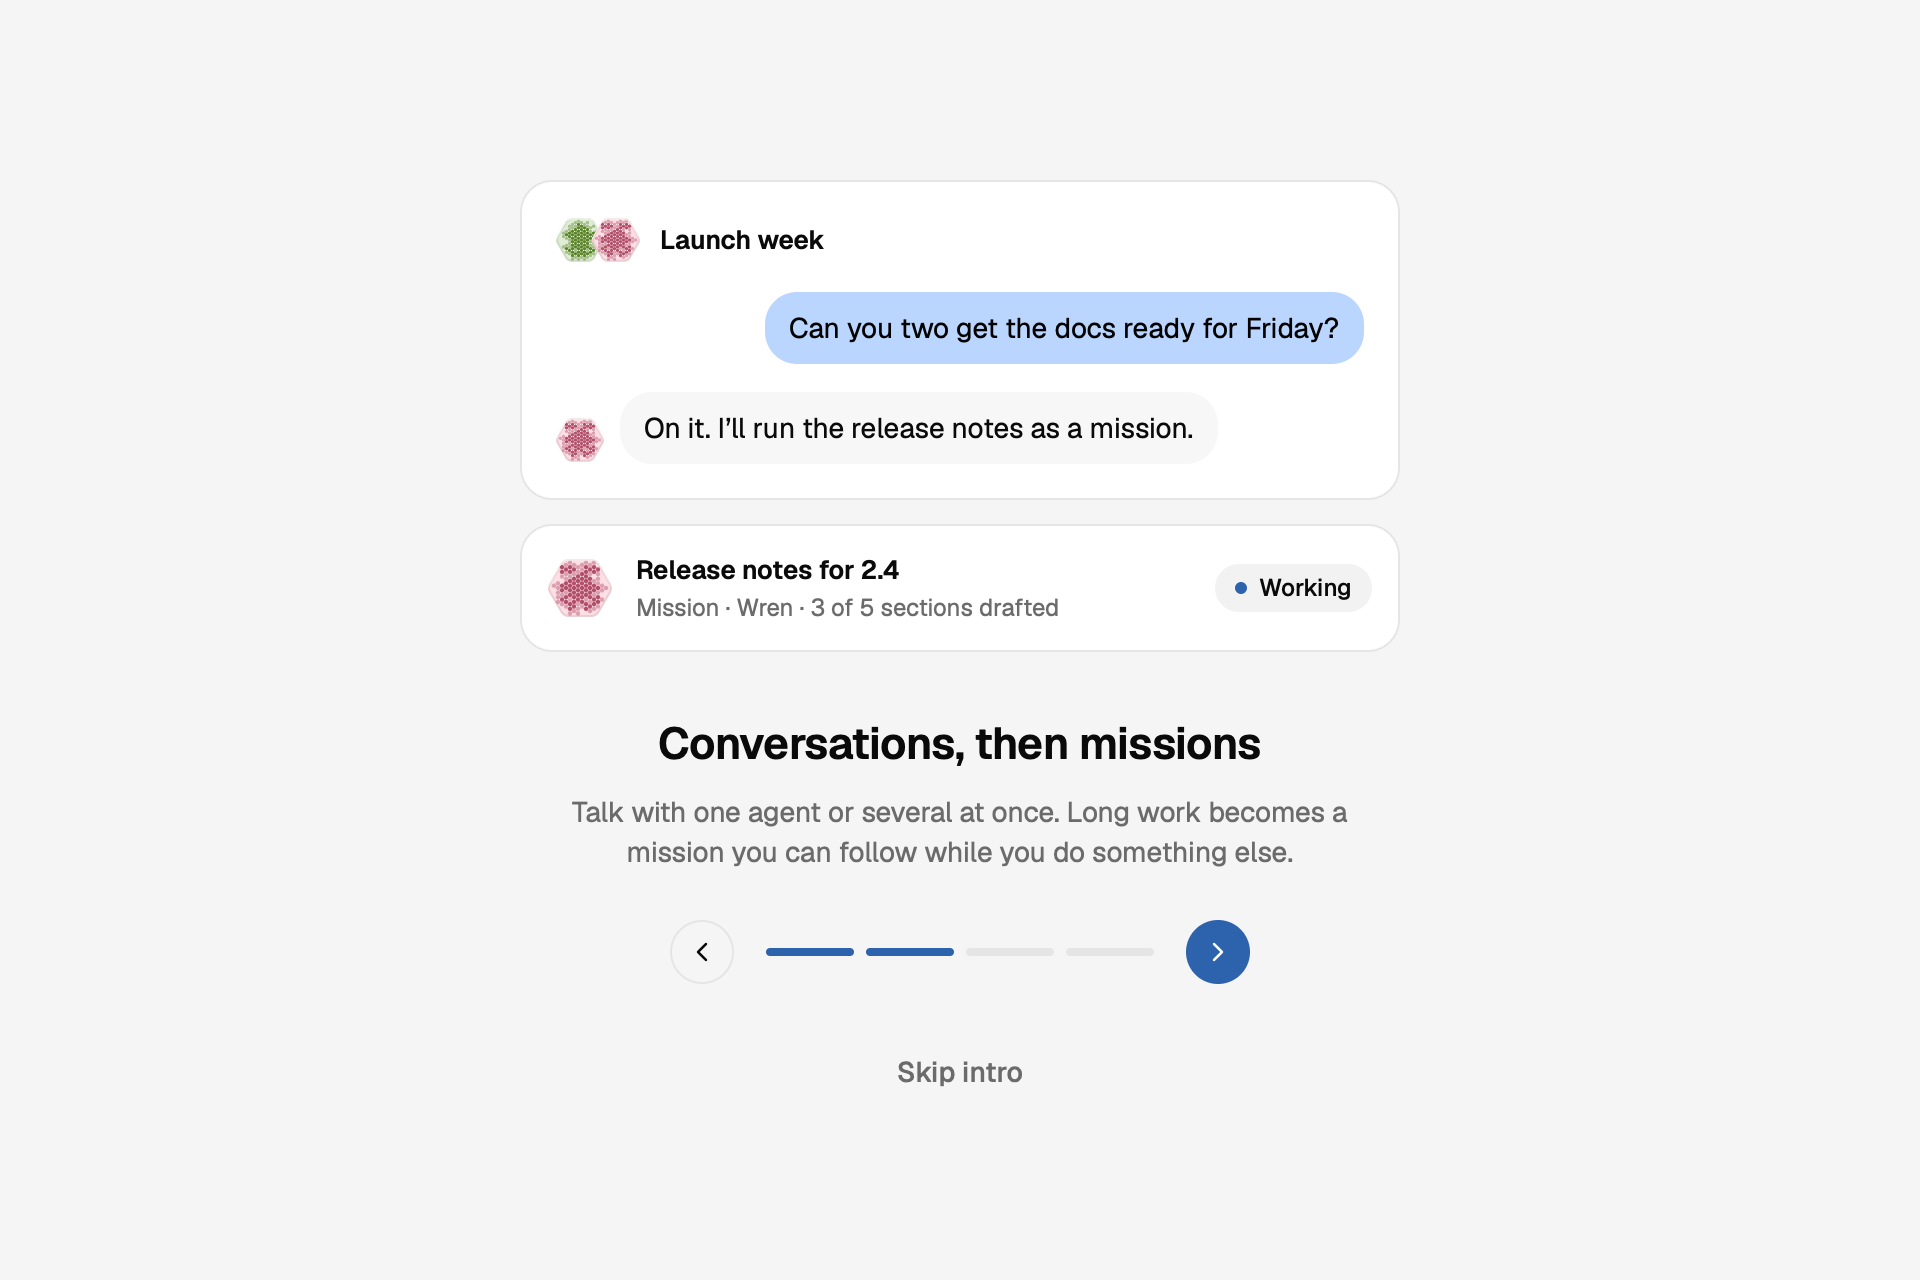
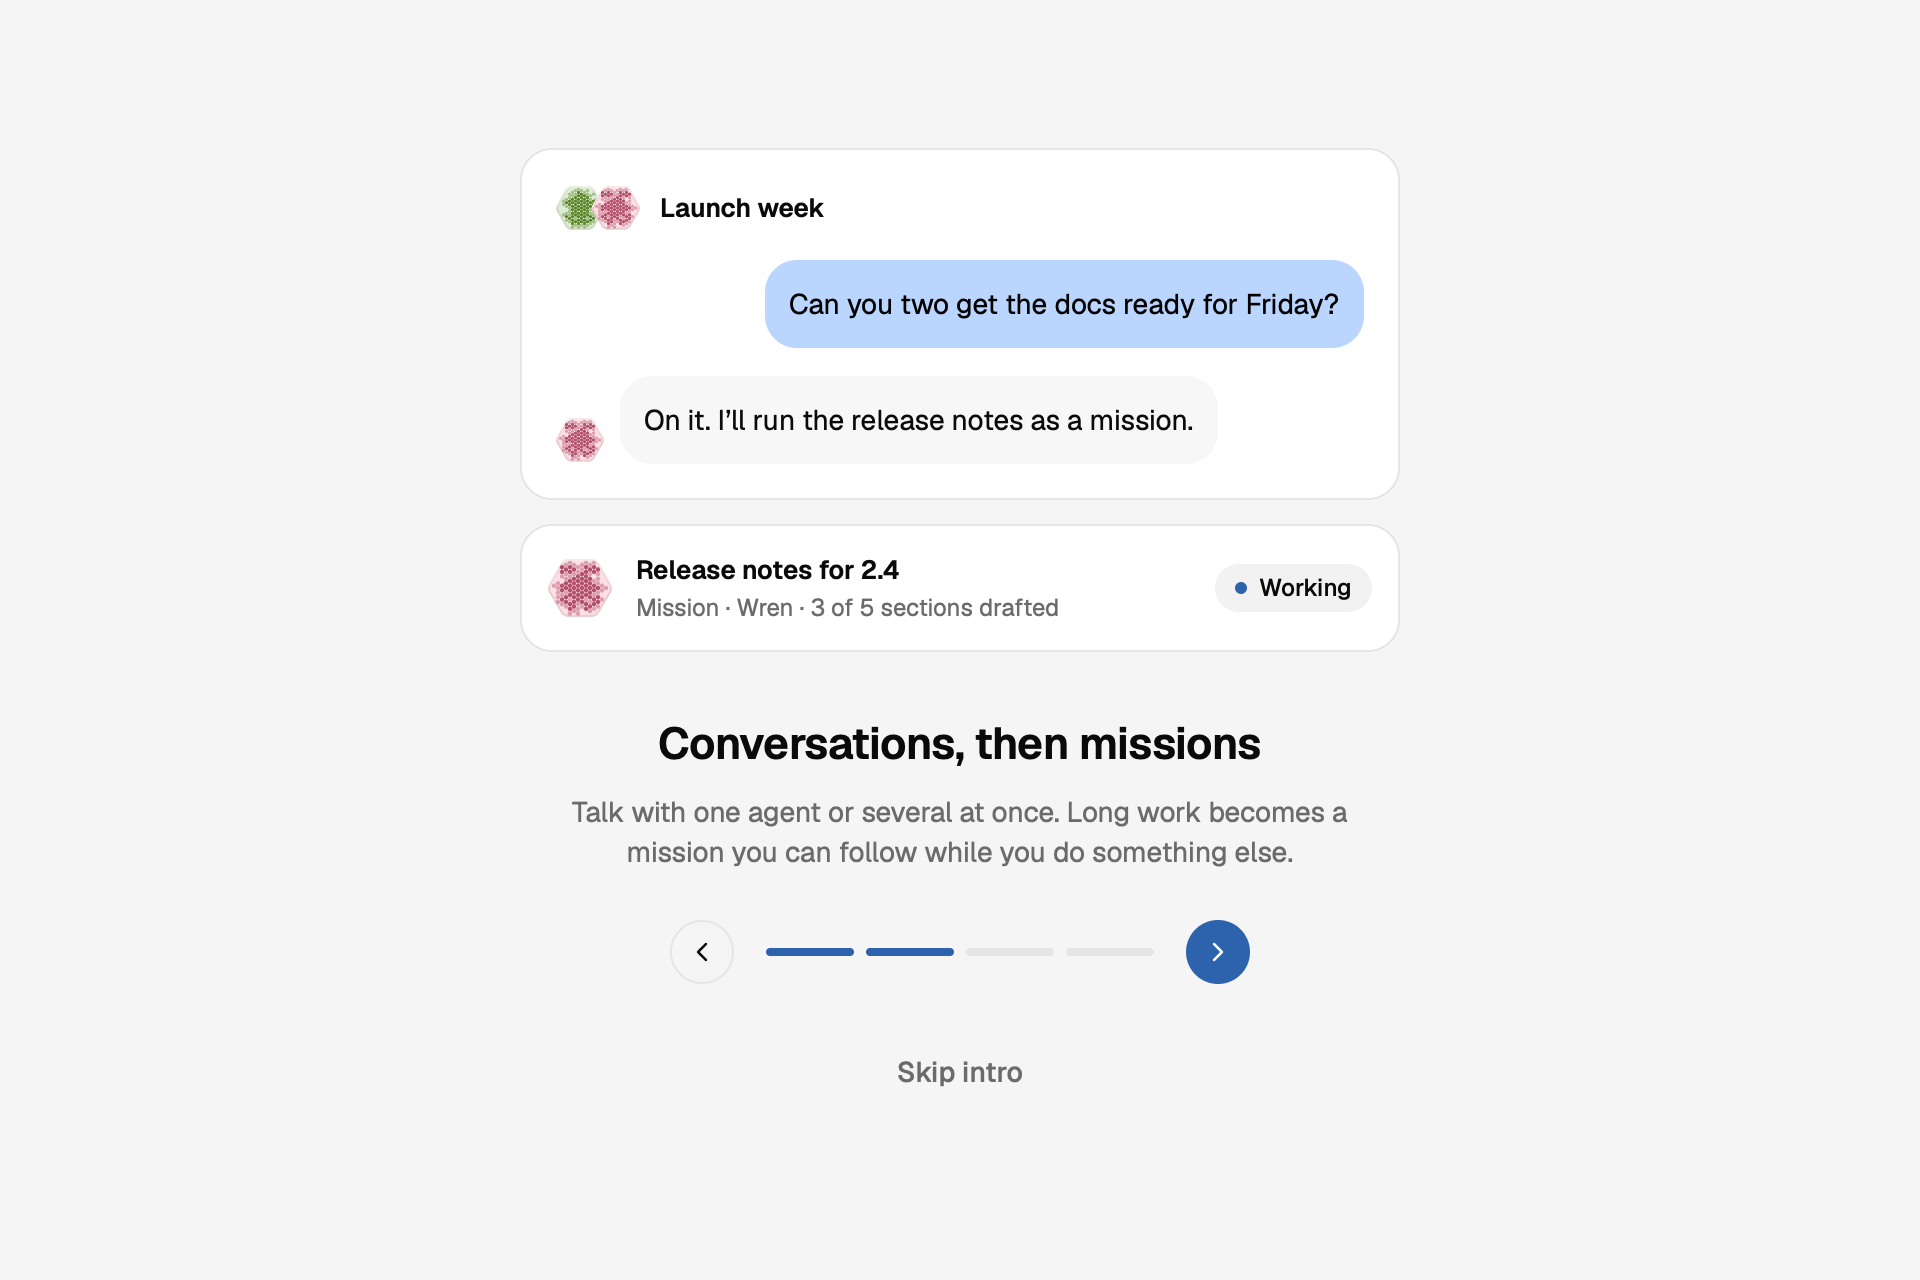
fix(rune-preview): pad welcome bubbles equally and fill the notice action (OPE-1978)

Changed region(s): [[0.2812, 0.125, 0.7188, 0.2812], [0.3125, 0.3125, 0.625, 0.3438]]

diff --git a/apps/rune-preview/kit/src/surfaces/s04_boot/notice.rs b/apps/rune-preview/kit/src/surfaces/s04_boot/notice.rs
@@ -263,7 +263,7 @@ fn content<S: 'static>(
 	if let Some(action) = notice.action {
 		body = body.child(
 			Button::new(action)
-				.variant(ButtonVariant::Outline)
+				.variant(ButtonVariant::Secondary)
 				.size(ButtonSize::Sm)
 				.view(t)
 				.on_press(move |s: &mut S| emit(s, SurfaceEvent::Act(index))),

diff --git a/apps/rune-preview/kit/src/surfaces/s04_boot/welcome.rs b/apps/rune-preview/kit/src/surfaces/s04_boot/welcome.rs
@@ -243,8 +243,7 @@ fn bubble(t: &Tokens, words: &str, solid: bool) -> El {
 	};
 	el().max_w(BUBBLE_MAX_WIDTH)
 		.shrink()
-		.px(SPACING * 3.0)
-		.py(SPACING * 2.0)
+		.padding(SPACING * 3.0)
 		.radius(RADIUS_BUBBLE)
 		.fill(fill)
 		.child(text(words.to_owned()).font(TEXT_SM).color(ink).wrap())
